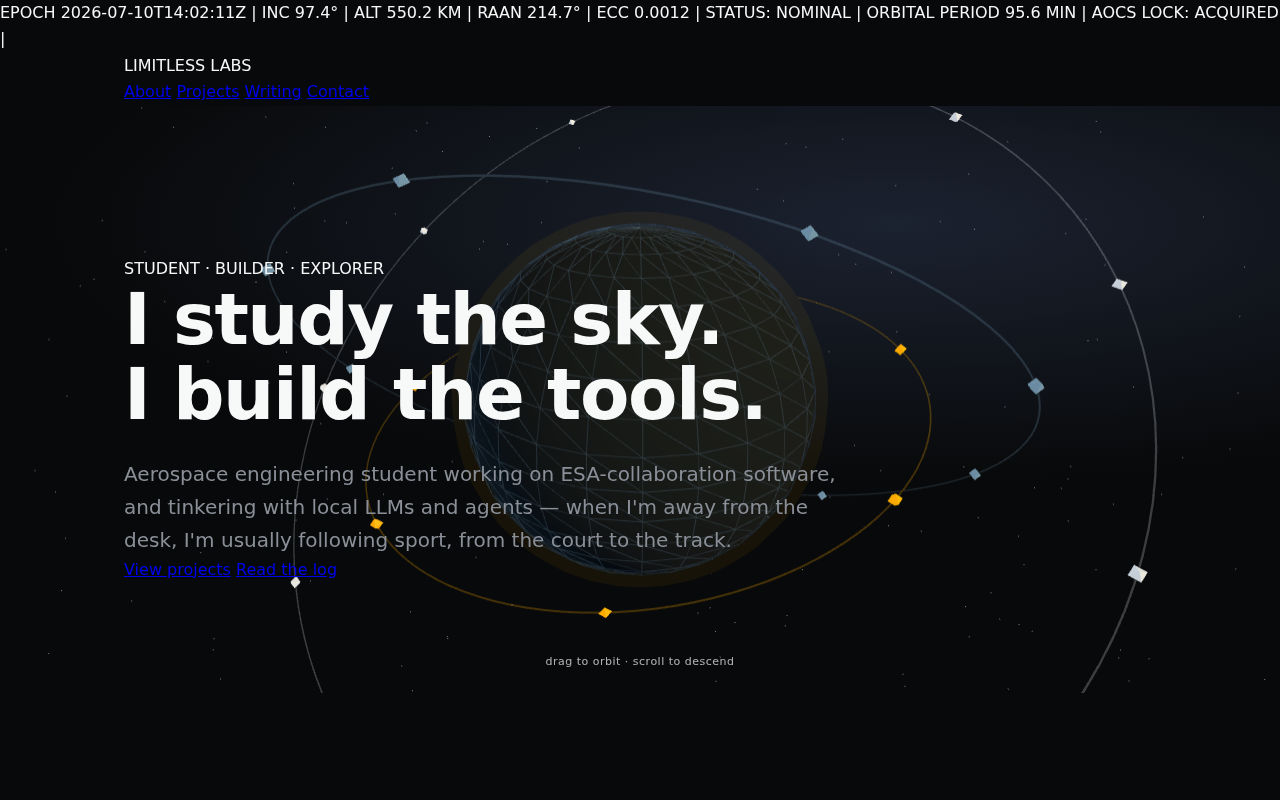
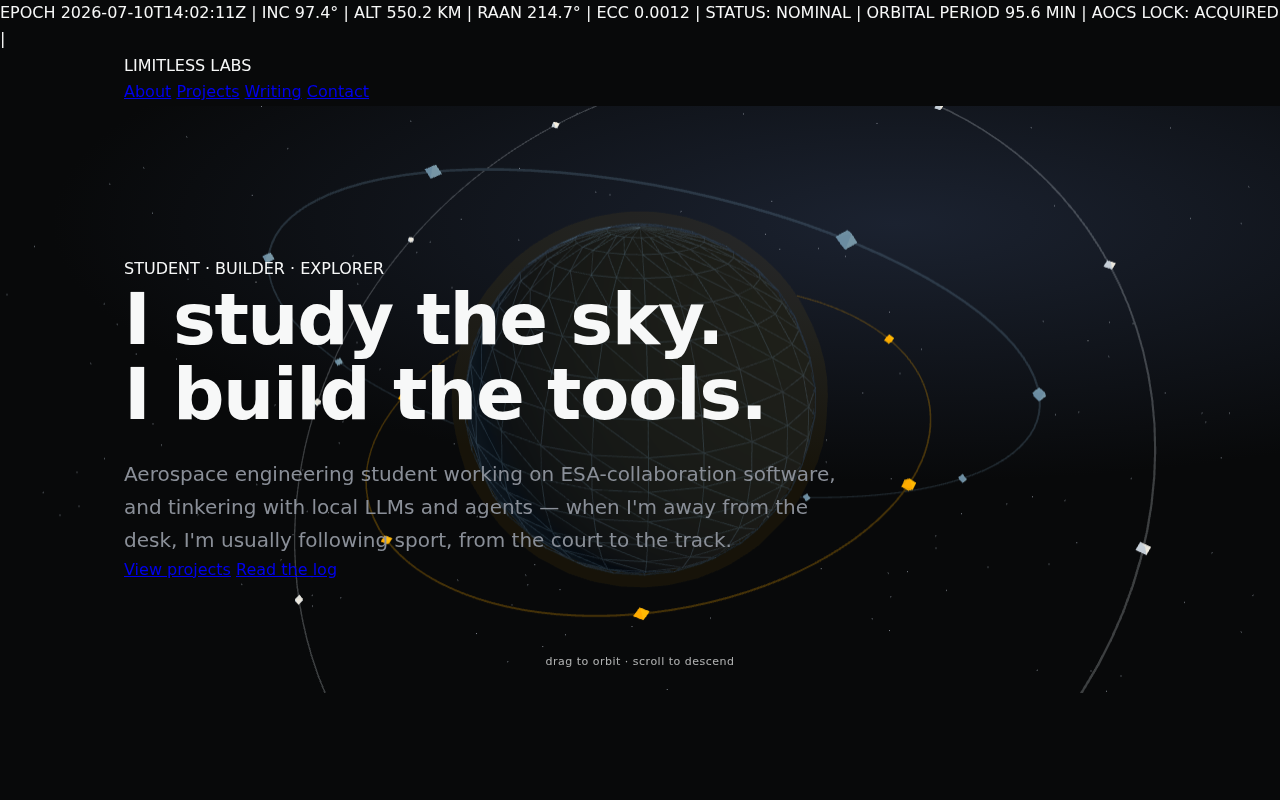
fix(prototype): local base.css (amber palette) + self-hosted fonts (drop Google Fonts dependency)

diff --git a/prototype/base.css b/prototype/base.css
@@ -1,0 +1,289 @@
+/* Limitless Labs — base design (amber palette), extracted from live index.html
+   + local @font-face so we never depend on Google Fonts CDN. */
+
+/* ---------- Local fonts (served from prototype/fonts/) ---------- */
+@font-face{
+  font-family: 'Space Grotesk';
+  font-style: normal; font-weight: 400 700;
+  font-display: swap;
+  src: url('fonts/space-grotesk.woff2') format('woff2');
+}
+@font-face{
+  font-family: 'IBM Plex Sans';
+  font-style: normal; font-weight: 400 500;
+  font-display: swap;
+  src: url('fonts/ibm-plex-sans.woff2') format('woff2');
+}
+@font-face{
+  font-family: 'JetBrains Mono';
+  font-style: normal; font-weight: 400 500;
+  font-display: swap;
+  src: url('fonts/jetbrains-mono.woff2') format('woff2');
+}
+
+:root{
+  --bg: #14171C;
+  --panel: #1A1E25;
+  --panel-2: #20242C;
+  --hairline: #2B303A;
+  --amber: #FFB000;
+  --amber-dim: #8A6100;
+  --steel: #6F93AC;
+  --text: #F1F0EC;
+  --text-dim: #9BA1AB;
+  --text-faint: #5C626D;
+  --font-display: 'Space Grotesk', sans-serif;
+  --font-body: 'IBM Plex Sans', sans-serif;
+  --font-mono: 'JetBrains Mono', monospace;
+}
+
+*{ box-sizing: border-box; margin:0; padding:0; }
+html{ scroll-behavior: smooth; }
+body{
+  background: var(--bg);
+  color: var(--text);
+  font-family: var(--font-body);
+  line-height: 1.6;
+  -webkit-font-smoothing: antialiased;
+}
+::selection{ background: var(--amber); color: #1A1400; }
+a{ color: inherit; text-decoration: none; }
+
+.wrap{ max-width: 1080px; margin: 0 auto; padding: 0 28px; }
+
+/* ---------- Telemetry ticker ---------- */
+.ticker{
+  background: #0E1013;
+  border-bottom: 1px solid var(--hairline);
+  overflow: hidden;
+  white-space: nowrap;
+  padding: 7px 0;
+  position: sticky;
+  top: 0;
+  z-index: 50;
+}
+.ticker-track{
+  display: inline-block;
+  font-family: var(--font-mono);
+  font-size: 11px;
+  letter-spacing: 0.4px;
+  color: var(--amber);
+  animation: scroll-left 38s linear infinite;
+  padding-left: 100%;
+}
+.ticker-track span{ color: var(--text-faint); margin: 0 10px; }
+@keyframes scroll-left{
+  from{ transform: translateX(0); }
+  to{ transform: translateX(-100%); }
+}
+@media (prefers-reduced-motion: reduce){
+  .ticker-track{ animation: none; padding-left: 24px; }
+}
+
+/* ---------- Nav ---------- */
+nav{
+  display: flex;
+  align-items: center;
+  justify-content: space-between;
+  padding: 22px 0;
+}
+.logo{
+  font-family: var(--font-display);
+  font-weight: 700;
+  font-size: 16px;
+  letter-spacing: 0.5px;
+}
+.logo .dim{ color: var(--text-dim); font-weight: 400; }
+.navlinks{
+  display: flex;
+  gap: 28px;
+  font-size: 13px;
+  color: var(--text-dim);
+}
+.navlinks a:hover{ color: var(--amber); }
+.navlinks a:focus-visible, a:focus-visible{
+  outline: 2px solid var(--amber);
+  outline-offset: 3px;
+  border-radius: 2px;
+}
+
+/* ---------- Hero ---------- */
+.hero{
+  position: relative;
+  overflow: hidden;
+  padding: 88px 0 96px;
+  border-bottom: 1px solid var(--hairline);
+}
+.hero-canvas{
+  position: absolute;
+  inset: 0;
+  width: 100%;
+  height: 100%;
+  display: block;
+  background: var(--bg);
+}
+.hero-overlay{
+  position: absolute;
+  inset: 0;
+  background: linear-gradient(180deg,
+    rgba(20,23,28,0.55) 0%,
+    rgba(20,23,28,0.25) 40%,
+    rgba(20,23,28,0.45) 68%,
+    rgba(20,23,28,0.88) 100%);
+  pointer-events: none;
+}
+.hero .wrap{ position: relative; z-index: 2; }
+.hero-eyebrow{
+  font-family: var(--font-mono);
+  font-size: 12px;
+  color: var(--steel);
+  letter-spacing: 1px;
+  margin-bottom: 20px;
+}
+.hero-eyebrow::before{ content: "▸ "; color: var(--amber); }
+h1{
+  font-family: var(--font-display);
+  font-weight: 700;
+  font-size: clamp(40px, 6vw, 68px);
+  line-height: 1.05;
+  letter-spacing: -0.5px;
+  max-width: 780px;
+}
+h1 .accent{ color: var(--amber); }
+.hero-sub{
+  margin-top: 24px;
+  max-width: 560px;
+  font-size: 17px;
+  color: var(--text-dim);
+}
+.hero-cta{
+  margin-top: 36px;
+  display: flex;
+  gap: 14px;
+  flex-wrap: wrap;
+}
+.btn{
+  font-family: var(--font-body);
+  font-size: 14px;
+  font-weight: 500;
+  padding: 12px 22px;
+  border-radius: 4px;
+  border: 1px solid var(--hairline);
+  transition: border-color 0.15s ease, background 0.15s ease;
+  display: inline-block;
+}
+.btn-primary{
+  background: var(--amber);
+  color: #1A1400;
+  border-color: var(--amber);
+}
+.btn-primary:hover{ background: #E5A000; }
+.btn-ghost{ color: var(--text); }
+.btn-ghost:hover{ border-color: var(--steel); color: var(--steel); }
+
+/* ---------- Section shared ---------- */
+section{ padding: 80px 0; border-bottom: 1px solid var(--hairline); }
+.section-head{
+  display: flex;
+  align-items: baseline;
+  justify-content: space-between;
+  margin-bottom: 40px;
+  flex-wrap: wrap;
+  gap: 10px;
+}
+.section-label{
+  font-family: var(--font-mono);
+  font-size: 12px;
+  color: var(--amber);
+  letter-spacing: 1px;
+}
+h2{
+  font-family: var(--font-display);
+  font-weight: 500;
+  font-size: 28px;
+  margin-top: 6px;
+}
+.section-note{ font-size: 13px; color: var(--text-faint); font-family: var(--font-mono); }
+
+/* ---------- About ---------- */
+.about-grid{
+  display: grid;
+  grid-template-columns: 1.4fr 1fr;
+  gap: 48px;
+}
+.about-body p{ color: var(--text-dim); margin-bottom: 16px; font-size: 15.5px; max-width: 560px; }
+.about-body strong{ color: var(--text); font-weight: 500; }
+
+/* ---------- Projects ---------- */
+.project-grid{
+  display: grid;
+  grid-template-columns: repeat(3, 1fr);
+  gap: 1px;
+  background: var(--hairline);
+  border: 1px solid var(--hairline);
+}
+.card{
+  background: var(--panel);
+  padding: 26px 24px;
+  display: flex;
+  flex-direction: column;
+  gap: 14px;
+  transition: background 0.15s ease;
+}
+.card:hover{ background: var(--panel-2); }
+.tag{
+  font-family: var(--font-mono);
+  font-size: 10.5px;
+  letter-spacing: 0.6px;
+  width: fit-content;
+  padding: 3px 8px;
+  border-radius: 3px;
+}
+.tag-aero{ color: var(--amber); border: 1px solid var(--amber-dim); }
+.tag-ai{ color: var(--steel); border: 1px solid #2E4A5B; }
+.tag-sys{ color: var(--text-dim); border: 1px solid var(--hairline); }
+.card h3{ font-family: var(--font-display); font-weight: 500; font-size: 17px; }
+.card p{ font-size: 13.5px; color: var(--text-dim); flex-grow: 1; }
+.card .stack{ font-family: var(--font-mono); font-size: 11px; color: var(--text-faint); }
+
+/* ---------- Writing / transmission log ---------- */
+.log-list{ display: flex; flex-direction: column; gap: 1px; background: var(--hairline); border: 1px solid var(--hairline); }
+.log-row{
+  background: var(--panel);
+  padding: 22px 24px;
+  display: grid;
+  grid-template-columns: 140px 1fr auto;
+  gap: 20px;
+  align-items: baseline;
+  transition: background 0.15s ease;
+}
+.log-row:hover{ background: var(--panel-2); }
+.log-date{ font-family: var(--font-mono); font-size: 12px; color: var(--steel); }
+.log-title{ font-family: var(--font-display); font-weight: 500; font-size: 17px; color: var(--text); }
+.log-title a{ color: inherit; }
+.log-title a:hover{ color: var(--amber); }
+.log-cat{ font-family: var(--font-mono); font-size: 10.5px; letter-spacing: 0.6px; padding: 3px 8px; border-radius: 3px; }
+.log-cat-aero{ color: var(--amber); border: 1px solid var(--amber-dim); }
+.log-cat-ai{ color: var(--steel); border: 1px solid #2E4A5B; }
+.log-cat-sys{ color: var(--text-dim); border: 1px solid var(--hairline); }
+
+/* ---------- Contact / footer ---------- */
+footer{ padding: 64px 0 40px; }
+.contact-row{
+  display: flex;
+  justify-content: space-between;
+  align-items: flex-end;
+  flex-wrap: wrap;
+  gap: 24px;
+}
+.contact-links{ display: flex; gap: 20px; font-size: 13.5px; }
+.contact-links a{ color: var(--text-dim); border-bottom: 1px solid transparent; }
+.contact-links a:hover{ color: var(--amber); border-color: var(--amber); }
+.foot-meta{ font-family: var(--font-mono); font-size: 11px; color: var(--text-faint); margin-top: 40px; }
+
+@media (max-width: 760px){
+  .about-grid{ grid-template-columns: 1fr; }
+  .project-grid{ grid-template-columns: 1fr; }
+  .navlinks{ display: none; }
+  .log-row{ grid-template-columns: 1fr; gap: 8px; }
+}

diff --git a/prototype/index.html b/prototype/index.html
@@ -5,11 +5,8 @@
 <meta name="viewport" content="width=device-width, initial-scale=1.0">
 <title>Limitless Labs — Prototype</title>
 <meta name="robots" content="noindex, nofollow">
-<link rel="preconnect" href="https://fonts.googleapis.com">
-<link rel="preconnect" href="https://fonts.gstatic.com" crossorigin>
-<link href="https://fonts.googleapis.com/css2?family=Space+Grotesk:wght@400;500;700&family=IBM+Plex+Sans:wght@400;500&family=JetBrains+Mono:wght@400;500&display=swap" rel="stylesheet">
-<link rel="stylesheet" href="/limitless-labs/style.css">
-<link rel="stylesheet" href="/limitless-labs/prototype/style-proto.css">
+<link rel="stylesheet" href="base.css">
+<link rel="stylesheet" href="style-proto.css">
 </head>
 <body>
 